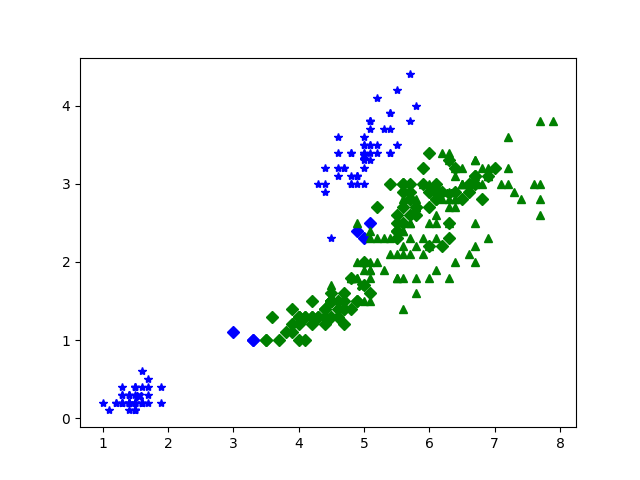
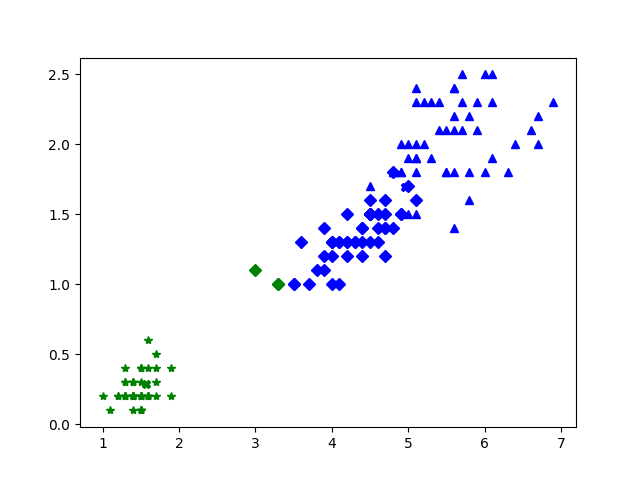
graficas arregladas

diff --git a/irisCluster.py b/irisCluster.py
@@ -2,6 +2,7 @@ import numpy as np
 from cluster import Cluster,kmeans,compress,createClusters
 import os.path
 import matplotlib.pyplot as plt
+import matplotlib.patches as mpatches
 
 colors = ['b','g','r','c','m']
 file = open("iris-clean.txt",'r')
@@ -24,7 +25,7 @@ def splitData(data,percentage,output_num):
     return data_train,data_test
 
 if __name__ == '__main__':
-    k = 5
+    k = 4
     number_attributes = 4
     data = np.loadtxt("iris-clean.txt", delimiter=",")
     x, junk = splitData(data, 100, 1)
@@ -57,4 +58,5 @@ if __name__ == '__main__':
                 act = data[elem]
                 plt.plot([act[0+j*2]],[act[1+j*2]],colors[i]+marker)
         plt.savefig(os.path.splitext(os.path.basename("k" + str(k) + "-" + str(j+1)))[0] + '.png')
+        plt.clf()
     #plt.show()
